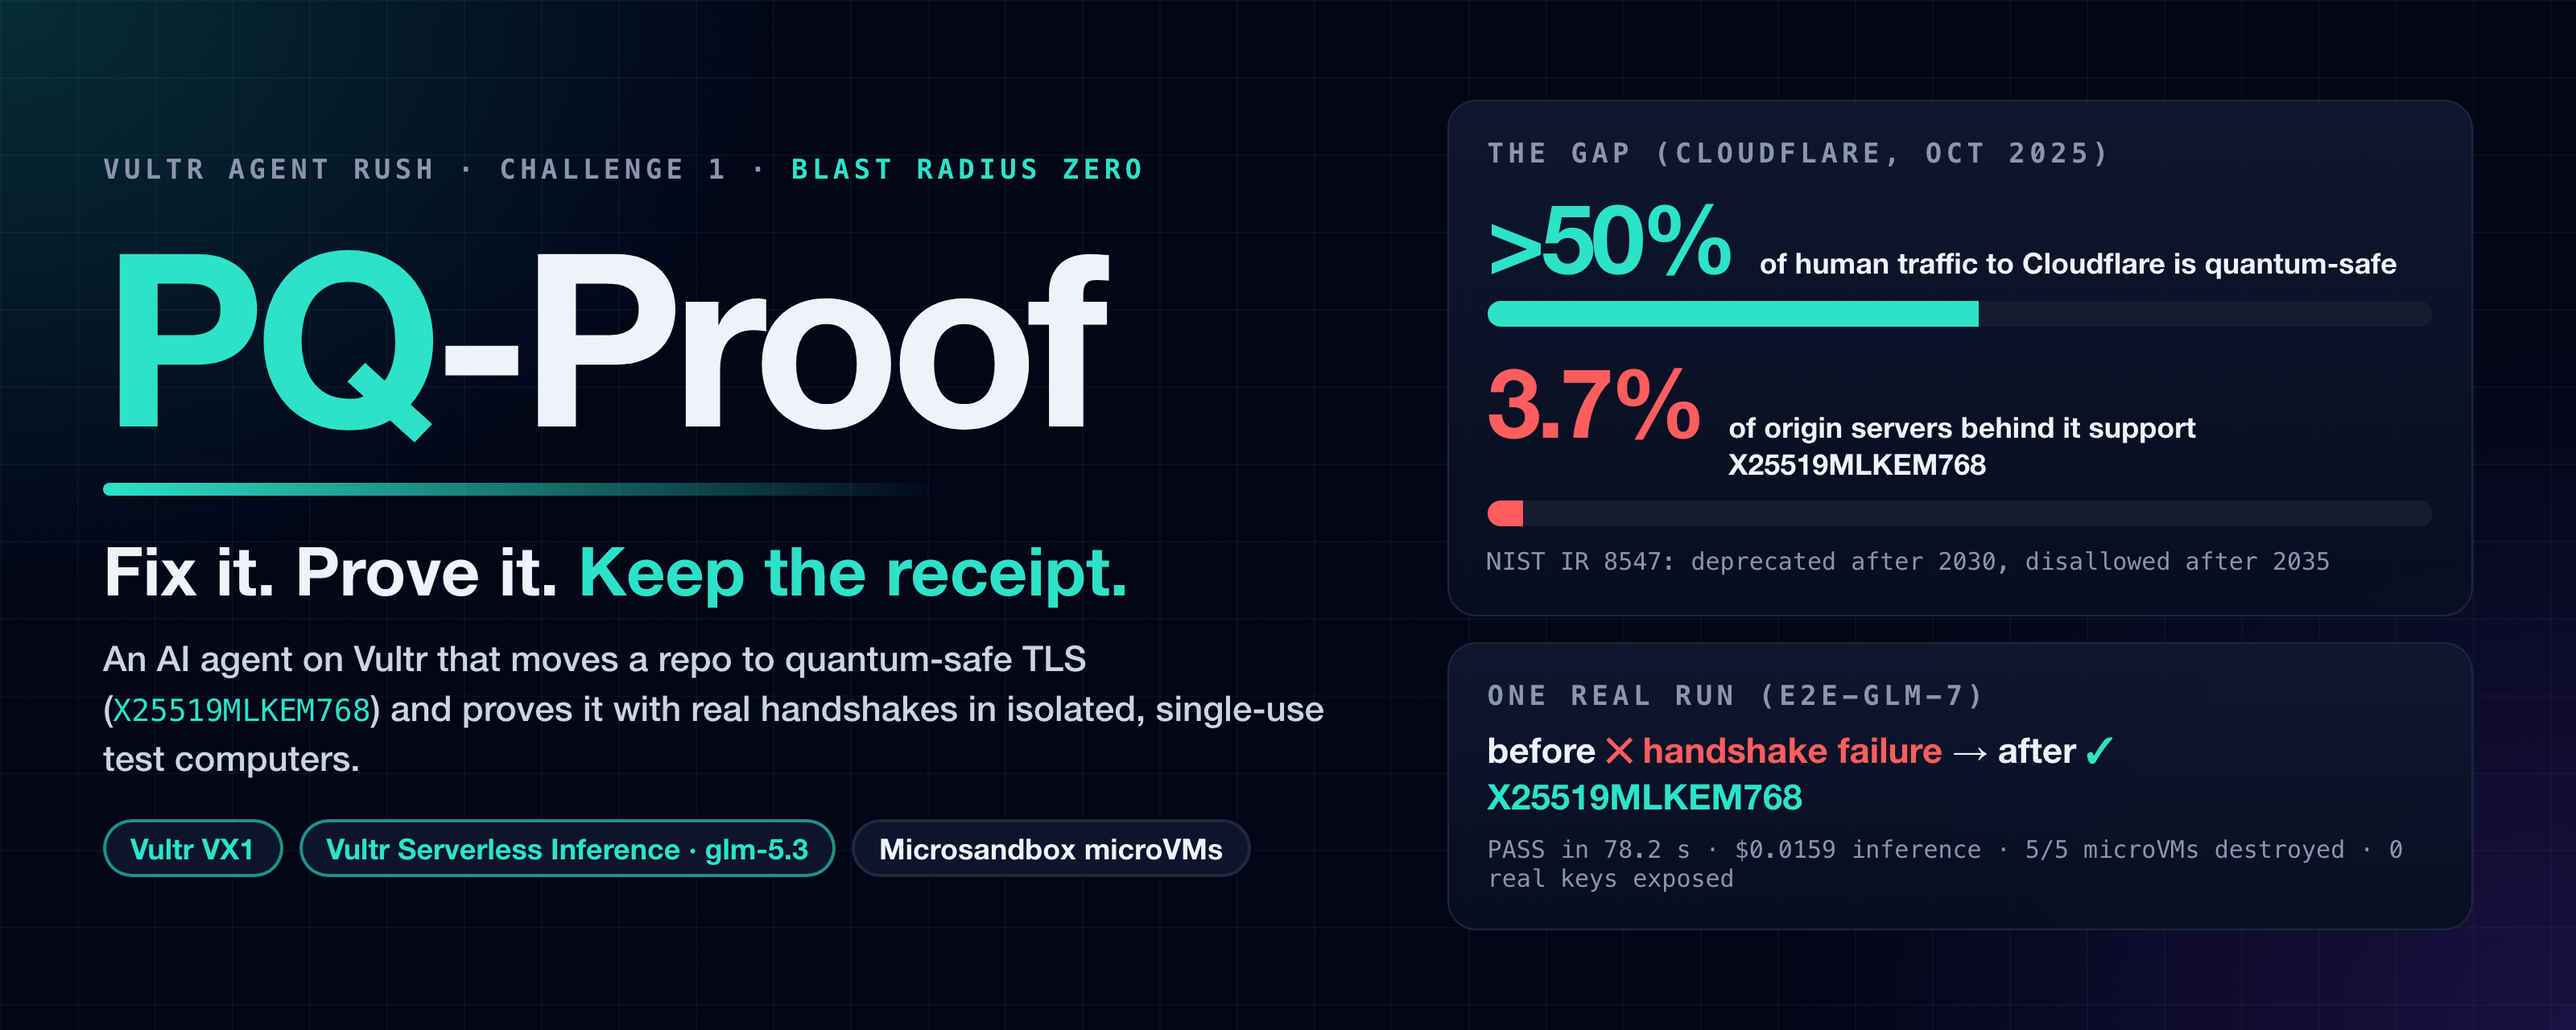
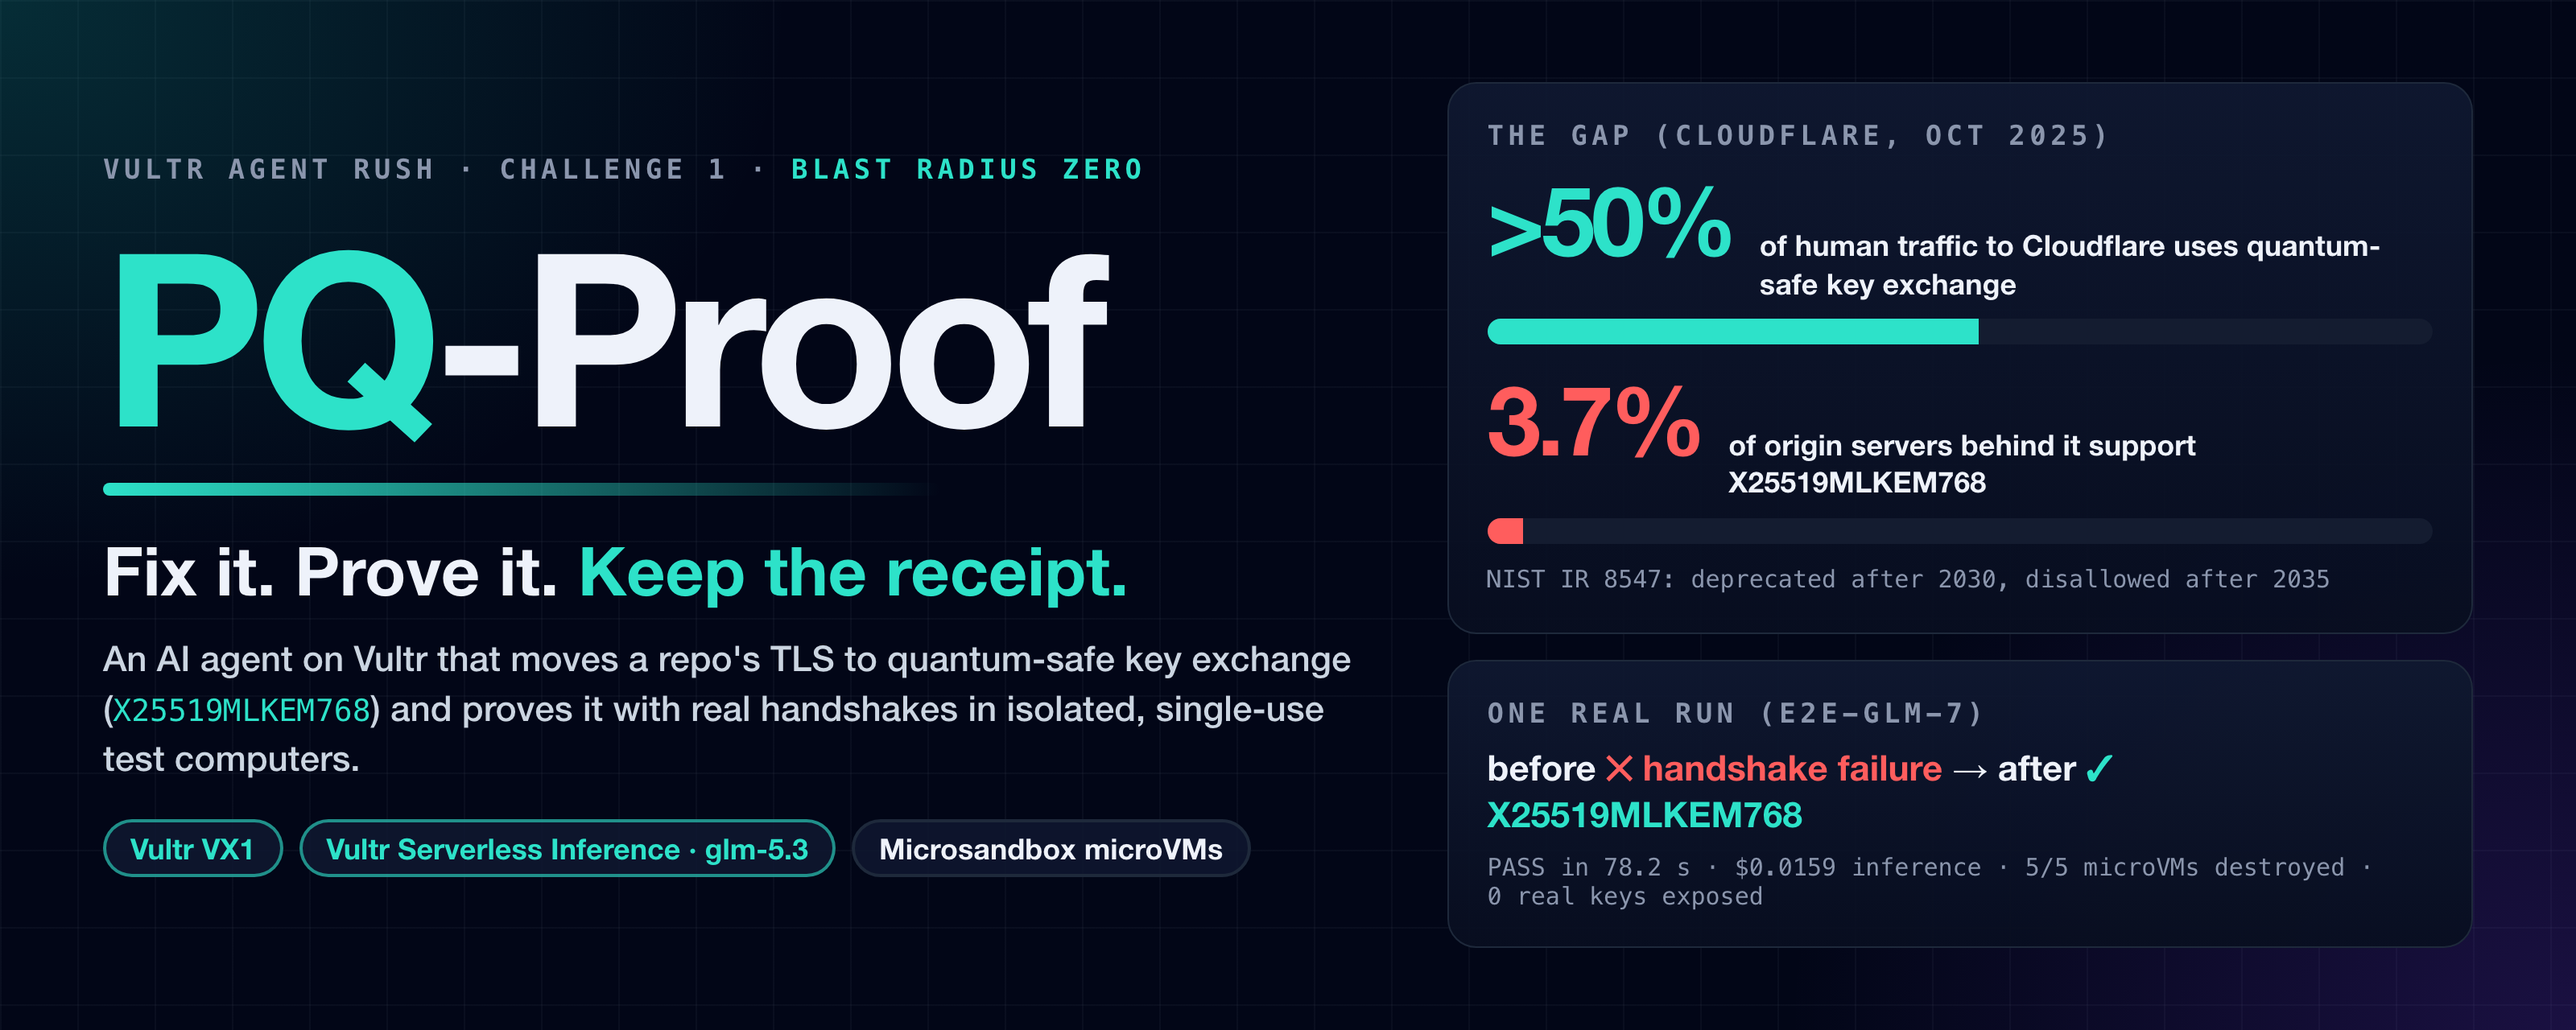
docs: accuracy fixes for the README visuals: key exchange (not all of TLS), 46 checks pass and re-verified when a receipt file changes, recorded runs pre-approved with --approve, 0 real keys footnote, run-specific cost badge; demo GIF from video v4; links to video v4 and slides v3 (release assets pe

diff --git a/README.md b/README.md
@@ -1,27 +1,27 @@
 # PQ-Proof
 
-<p align="center"><img src="docs/media/hero.png" alt="PQ-Proof. Fix it. Prove it. Keep the receipt. An AI agent on Vultr that moves a repo to quantum-safe TLS (X25519MLKEM768) and proves it with real handshakes in isolated, single-use test computers. Over 50% of human traffic to Cloudflare is quantum-safe, but only 3.7% of the origin servers behind it support X25519MLKEM768 (Cloudflare, Oct 2025)." width="100%"></p>
+<p align="center"><img src="docs/media/hero.png" alt="PQ-Proof. Fix it. Prove it. Keep the receipt. An AI agent on Vultr that moves a repo's TLS to quantum-safe key exchange (X25519MLKEM768) and proves it with real handshakes in isolated, single-use test computers. Over 50% of human traffic to Cloudflare uses quantum-safe key exchange, but only 3.7% of the origin servers behind it support X25519MLKEM768 (Cloudflare, Oct 2025)." width="100%"></p>
 
 <p align="center">
 <img src="docs/media/badges/verdict.svg" alt="verdict (e2e-glm-7): PASS">
 <img src="docs/media/badges/kex.svg" alt="key exchange: X25519MLKEM768">
 <img src="docs/media/badges/runtime.svg" alt="run: 78.2 s">
-<img src="docs/media/badges/inference.svg" alt="inference: $0.0159 per run">
+<img src="docs/media/badges/inference.svg" alt="inference: $0.0159 for run e2e-glm-7">
 <img src="docs/media/badges/microvms.svg" alt="microVMs destroyed: 5 / 5">
 <img src="docs/media/badges/host-builds.svg" alt="build commands on host: 0">
-<img src="docs/media/badges/real-keys.svg" alt="real keys exposed: 0">
-<img src="docs/media/badges/receipt.svg" alt="receipt: 46 checks match">
+<img src="docs/media/badges/real-keys.svg" alt="real keys exposed: 0 (none inside the microVM by design)">
+<img src="docs/media/badges/receipt.svg" alt="receipt: 46 checks pass">
 </p>
 
 <p align="center"><img src="docs/media/demo-loop.gif" alt="Demo loop: the real run e2e-glm-7 replayed on the public demo (PASS in 78.2 s), the planted test hook's canary caught by the sinkhole, real keys exposed: 0." width="100%"></p>
 
 Give PQ-Proof a repository URL. An agent inventories the repo's cryptography, patches its TLS key exchange to hybrid ML-KEM (`X25519MLKEM768`), and proves the change inside isolated microVMs on Vultr: a real handshake, the repo's own tests, and a classical client that still connects. You get a hashed receipt and a diff.
 
-**Live demo: https://149-28-14-122.sslip.io/** replays recorded runs. In the newest, `e2e-glm-7`, `glm-5.3` on Vultr Serverless Inference wrote the plan and the patch, and microVMs on a Vultr VX1 host built and proved it (78.2 s, $0.0159 in tokens, verdict PASS). `e2e-injection-scripted-1` shows the TLS-weakening check refusing a patch that follows the fixture README's prompt injection (a scripted stand-in, no model call). The page re-checks each run's hashed receipt on every request. Nothing on the demo site starts a run or calls a model.
+**Live demo: https://149-28-14-122.sslip.io/** replays recorded runs. In the newest, `e2e-glm-7`, `glm-5.3` on Vultr Serverless Inference wrote the plan and the patch, and microVMs on a Vultr VX1 host built and proved it (78.2 s, $0.0159 in tokens, verdict PASS). `e2e-injection-scripted-1` shows the TLS-weakening check refusing a patch that follows the fixture README's prompt injection (a scripted stand-in, no model call). The page checks each run's hashed receipt (46 checks for `e2e-glm-7`) and checks it again whenever a file in it changes. Nothing on the demo site starts a run or calls a model.
 
-Built for the Vultr Agent Rush hackathon (November 2026), challenge 1, Blast Radius Zero. Demo video (3:27): [PQ-Proof-demo-v3.mp4](https://github.com/g1mn/pq-proof/releases/download/submission-2026-11-08/PQ-Proof-demo-v3.mp4) · slides: [PQ-Proof-slides-v2.pdf](https://github.com/g1mn/pq-proof/releases/download/submission-2026-11-08/PQ-Proof-slides-v2.pdf) · fixture repository: [g1mn/orders-edge](https://github.com/g1mn/orders-edge) · team: g1mn, solo builder.
+Built for the Vultr Agent Rush hackathon (November 2026), challenge 1, Blast Radius Zero. Demo video (3:32): [PQ-Proof-demo-v4.mp4](https://github.com/g1mn/pq-proof/releases/download/submission-2026-11-08/PQ-Proof-demo-v4.mp4) · slides: [PQ-Proof-slides-v3.pdf](https://github.com/g1mn/pq-proof/releases/download/submission-2026-11-08/PQ-Proof-slides-v3.pdf) · fixture repository: [g1mn/orders-edge](https://github.com/g1mn/orders-edge) · team: g1mn, solo builder.
 
-<p align="center"><img src="docs/media/metrics.png" alt="One real run, e2e-glm-7: PASS in 78.2 s, $0.0159 of inference (3 requests, 12,140 input and 2,254 output tokens), 5 of 5 microVMs destroyed, 0 build commands on the host (7 inside microVMs), 0 real keys exposed (CANARY-0001 caught by the sinkhole)." width="100%"></p>
+<p align="center"><img src="docs/media/metrics.png" alt="One real run, e2e-glm-7: PASS in 78.2 s, $0.0159 of inference (3 requests, 12,140 input and 2,254 output tokens), 5 of 5 microVMs destroyed, 0 build commands on the host (7 inside microVMs), 0 real keys exposed (none inside the microVM by design; the hook reports presence only; CANARY-0001 caught by the sinkhole)." width="100%"></p>
 
 Diagrams below are made with [archify](docs/diagrams/README.md). Each has a PNG, a dark and a light SVG, and an interactive HTML copy in [docs/diagrams/](docs/diagrams/).
 
@@ -94,7 +94,7 @@ PQ-Proof calls one model, `glm-5.3`, for planning, patching and tool calls; no o
   <img src="docs/diagrams/sequence.png" alt="Sequence of one run: the operator starts the run; the control plane asks glm-5.3 for a plan (propose_plan); the operator approves and the plan compiles into the allowlist; the model proposes edits; the TLS-weakening check runs before any build; build and make test run in a fresh microVM; a failure sends the raw error back to the model, 3 attempts at most; tls_probe runs its controls, then hybrid-only and classical handshakes; the microVM is removed with msb rm --force; everything is hashed into the receipt." width="100%">
 </picture>
 
-The model proposes; a human approves; the probe decides. Interactive version: [docs/diagrams/sequence.html](docs/diagrams/sequence.html).
+The model proposes, a human approves, the probe decides. The recorded runs, `e2e-glm-7` included, approved the plan with `--approve`, so no human reviewed it; without the flag the operator approves at the prompt. Interactive version: [docs/diagrams/sequence.html](docs/diagrams/sequence.html).
 
 ## Plan and allowlist
 
@@ -196,7 +196,7 @@ It validates `receipt.json` against the schema, recomputes `receipt_id`, the byt
 python3 -m pqproof web --runs runs/   # http://127.0.0.1:8080/ ; each run directory is an e2e --out
 ```
 
-`pqproof/web.py` serves one page (`pqproof/static/`: HTML, CSS and plain JavaScript, no build step) and a small JSON API over the run directories under `--runs`; it never runs anything itself. For the chosen run the page shows the verdict, a replay of the run (the job timeline of control-plane phases and every microVM fills in as the recorded clock advances, sped up to about 25 s, next to the receipt's events in time order: each microVM created and destroyed with its image and limits, each canary that reached the sinkhole, each patch refused for weakening TLS, each proof with its expected and actual result, the verdict; built from the receipt alone, so opening it starts nothing, calls no model and needs no network), the containment panel (each canary that reached the sinkhole with the bytes it sent, patches refused for weakening TLS, how many egress attempts reached the sinkhole, `not counted` for what the policy dropped, host build commands, microVMs destroyed, and each microVM's network flags), the CBOM before and after side by side, the proofs, the attempts and the diff that passed, and the receipt with its links. Every request for a run re-checks its receipt with the same code as `verify-receipt` (the result is kept until a file in that receipt directory changes), and the page says whether all hashes matched.
+`pqproof/web.py` serves one page (`pqproof/static/`: HTML, CSS and plain JavaScript, no build step) and a small JSON API over the run directories under `--runs`; it never runs anything itself. For the chosen run the page shows the verdict, a replay of the run (the job timeline of control-plane phases and every microVM fills in as the recorded clock advances, sped up to about 25 s, next to the receipt's events in time order: each microVM created and destroyed with its image and limits, each canary that reached the sinkhole, each patch refused for weakening TLS, each proof with its expected and actual result, the verdict; built from the receipt alone, so opening it starts nothing, calls no model and needs no network), the containment panel (each canary that reached the sinkhole with the bytes it sent, patches refused for weakening TLS, how many egress attempts reached the sinkhole, `not counted` for what the policy dropped, host build commands, microVMs destroyed, and each microVM's network flags), the CBOM before and after side by side, the proofs, the attempts and the diff that passed, and the receipt with its links. The page checks each run's receipt with the same code as `verify-receipt`, keeps the result until a file in that receipt directory changes, and says whether all checks passed.
 
 | Request | Answer |
 |---|---|
